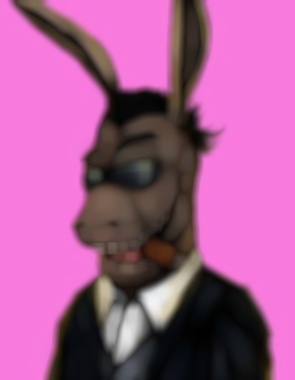
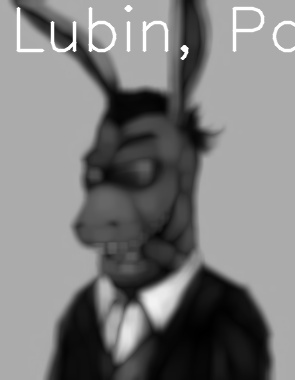
Added a function to put the authors name

diff --git a/effects.py b/effects.py
@@ -35,3 +35,13 @@ def turn_dilated(image,pixel_value):
     kernel = np.ones((pixel_value,pixel_value),np.uint8)
     dilation_image = cv2.dilate(image,kernel,iterations = 1 )
     return dilation_image
+
+def filter_ze_team(image, noms):
+    """
+    Function to put the names of the authors on the pic
+    :param image: Same picture on every function
+    :param noms: The names we want to write on the pic
+    :return: an image with some names on it
+    """
+    texted_image = cv2.putText(image, noms, (10,50), cv2.FONT_HERSHEY_SIMPLEX, 2, (255, 0, 0), 2, cv2.LINE_AA)
+    return texted_image;

diff --git a/core.py b/core.py
@@ -28,6 +28,8 @@ def modify_img(image, filter):
                 image = turn_blur(image, filter[i]['blur'])
             if str(filter[i]).find('dilate')!= -1:
                 image = turn_dilated(image, filter[i]['dilate'])
+            if filter[i] == 'authors':
+                image = filter_ze_team(image, "Lubin, Paul, Nathan")
         cv2.imshow(f'{image_nbr}', image)
         return image
 
